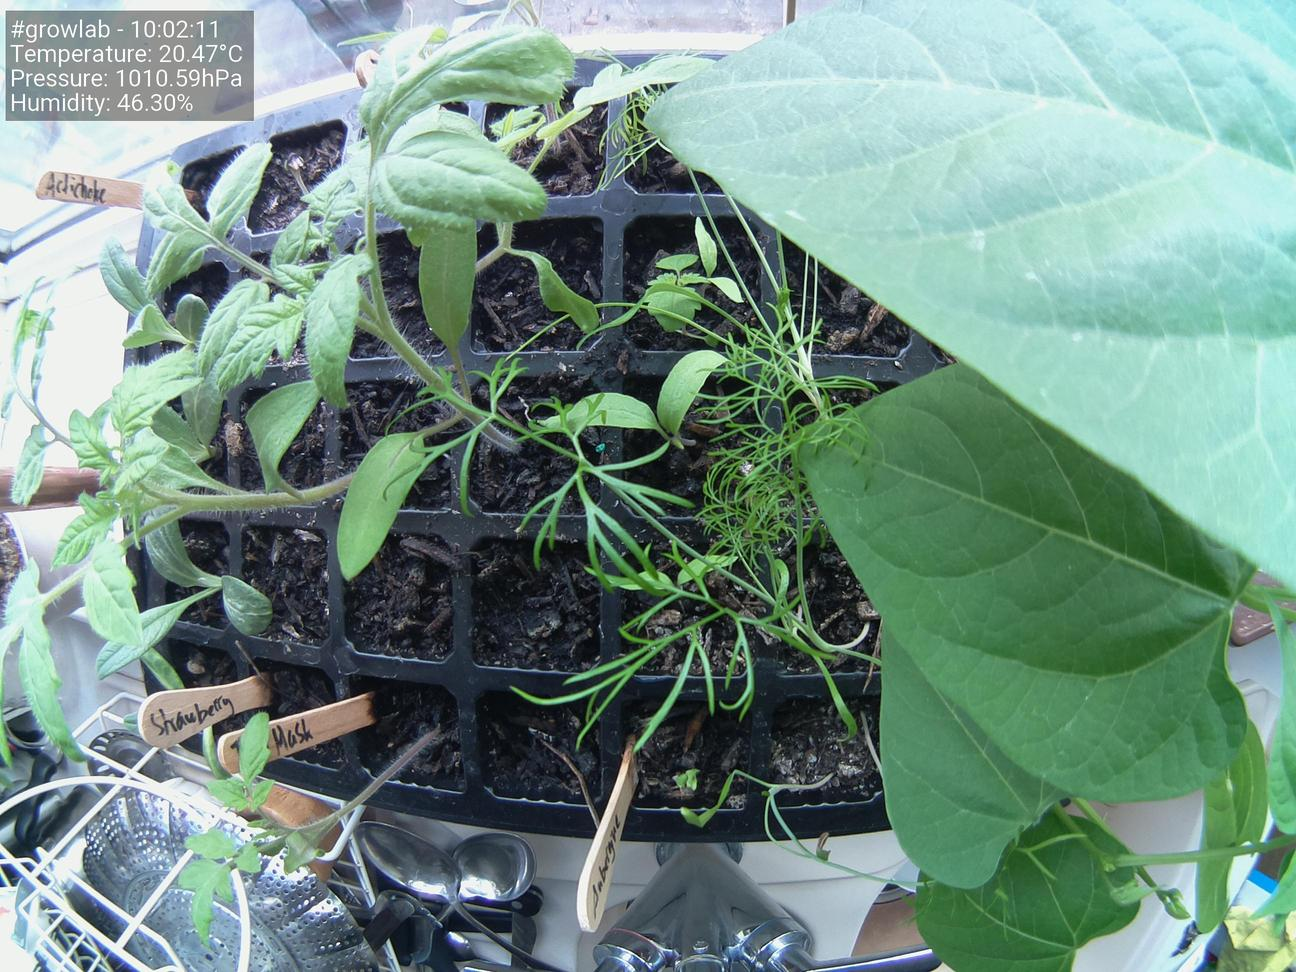
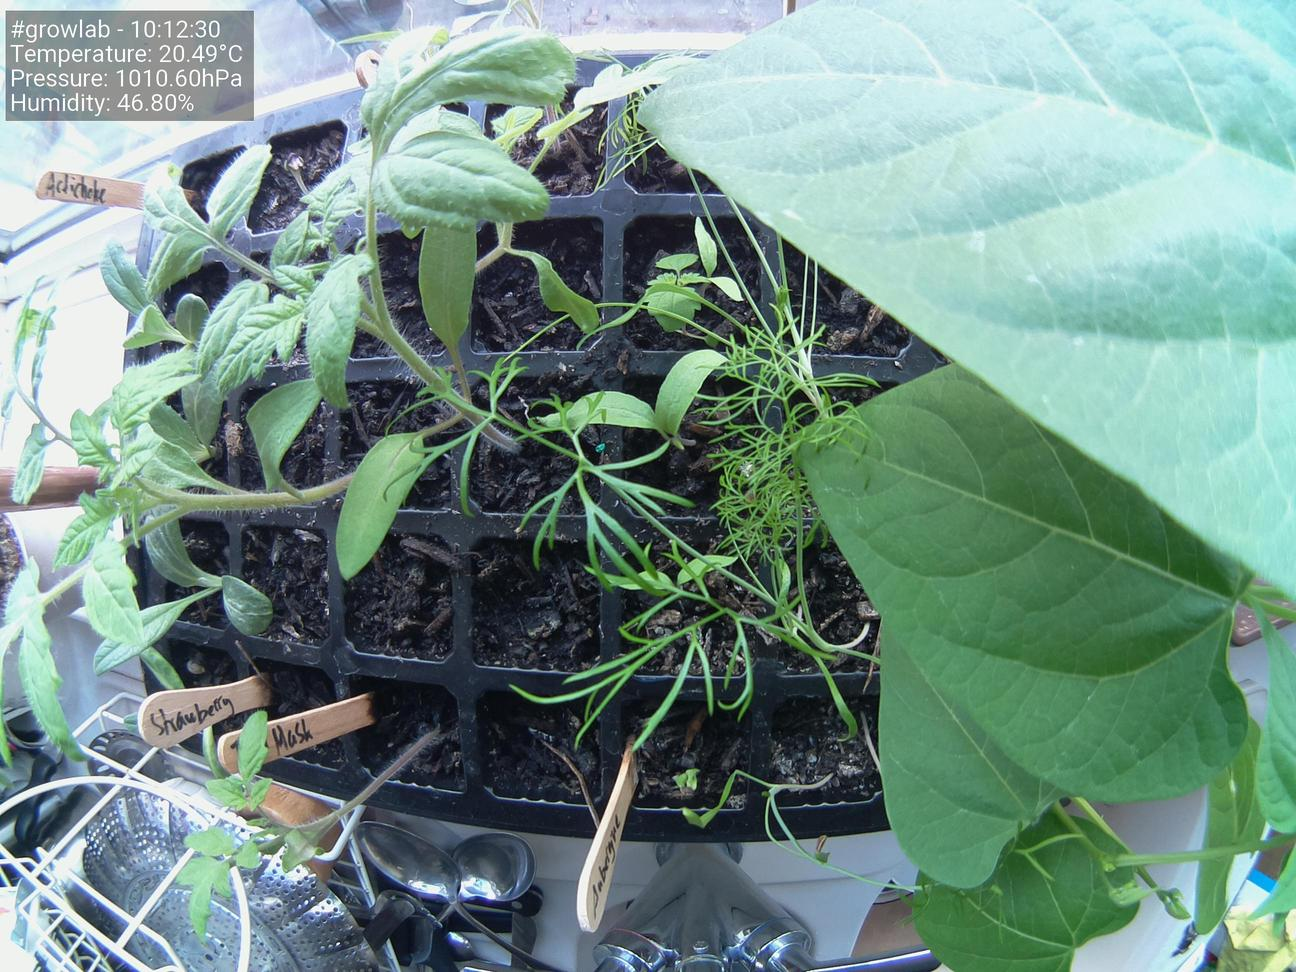
Update images at Thu 29 Apr 10:12:42 BST 2021

diff --git a/docs/index.html b/docs/index.html
@@ -38,19 +38,19 @@
                     <tbody>
                         <tr>
                             <td>Time</td>
-                            <td>10:02:11</td>
+                            <td>10:12:30</td>
                         </tr>
                         <tr>
                             <td>Temperature</td>
-                            <td>20.47°C</td>
+                            <td>20.49°C</td>
                         </tr>
                         <tr>
                             <td>Humidity</td>
-                            <td>46.30%</td>
+                            <td>46.80%</td>
                         </tr>
                         <tr>
                             <td>Pressure</td>
-                            <td>1010.59hPa</td>
+                            <td>1010.60hPa</td>
                         </tr>
                     </tbody>
                 </table>
@@ -58,7 +58,7 @@
 
                 <h5>Latest image</h5>
 		<div style="width: 85%;">
-	                <img class="figure-img img-fluid rounded" src="./preview.jpg?uid=1619686942.0516932">
+	                <img class="figure-img img-fluid rounded" src="./preview.jpg?uid=1619687561.806813">
 		</div>
             </div>
         </div>
